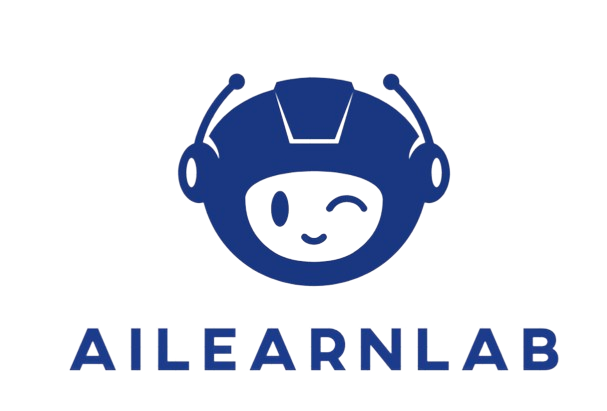
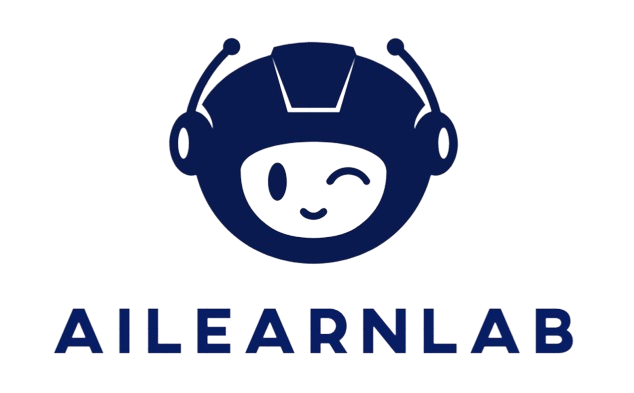
fixed colors

Changed region(s): [[0.2669, 0.0916, 0.7414, 0.7023], [0.089, 0.7634, 0.9193, 0.916]]

diff --git a/tailwind.config.js b/tailwind.config.js
@@ -13,11 +13,11 @@ module.exports = {
           "conic-gradient(from 180deg at 50% 50%, var(--tw-gradient-stops))",
       },
       colors: {
-        primary: "#063C5F",
+        primary: "#091B50",
         backgroundPrimary: "#FFF3E4",
         backgroundSecondary: "#fff",
-        buttonColor: "#013557",
-        backgroundTertiary: "#BCA9A9",
+        buttonColor: "#091B50",
+        backgroundTertiary: "#f3cab6",
       },
     },
   },
